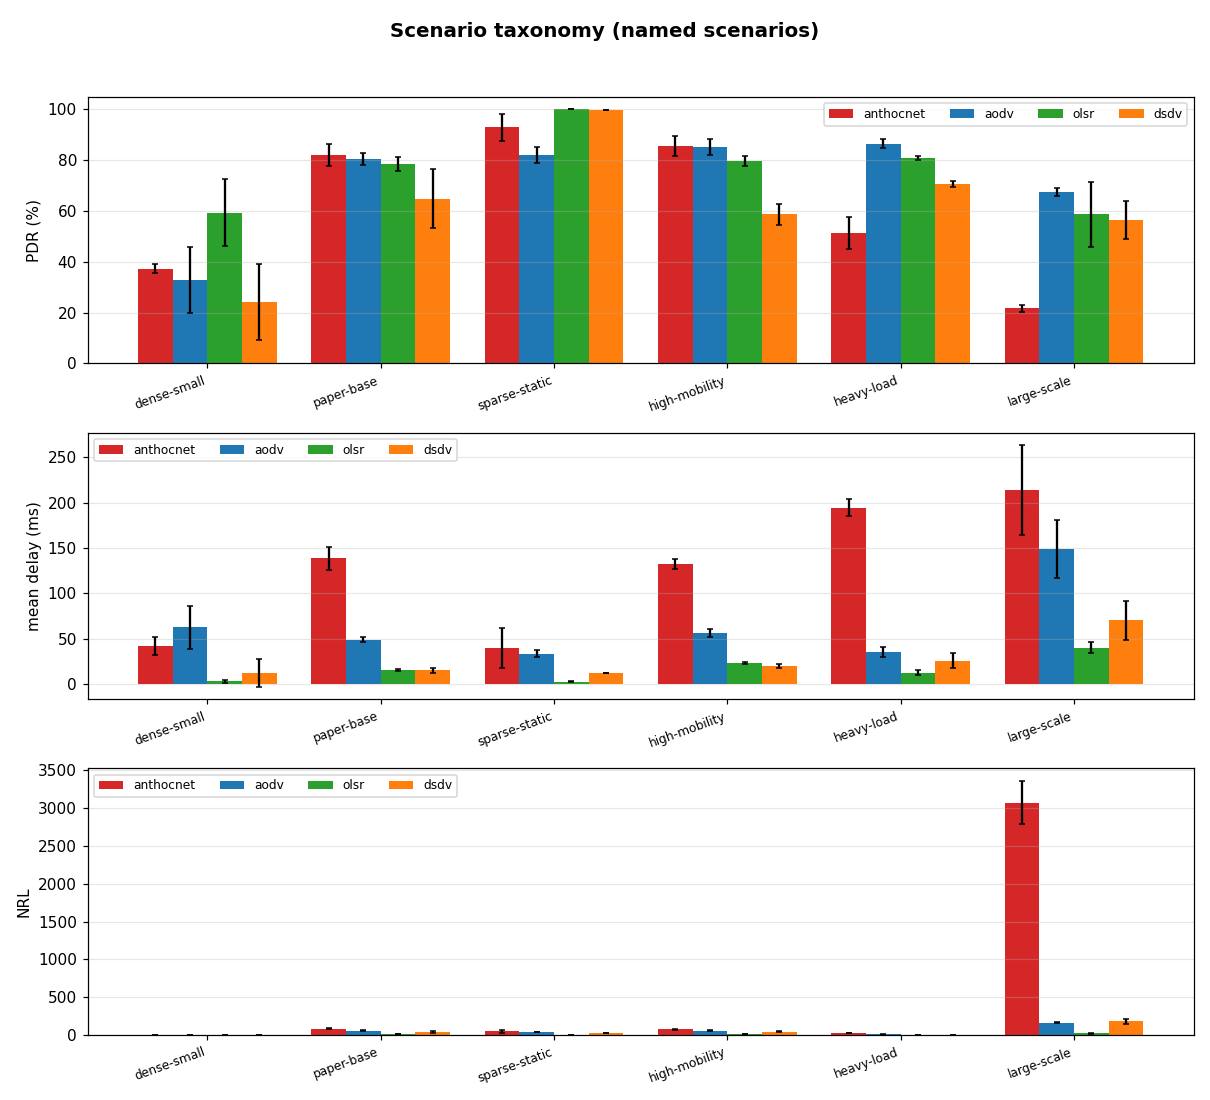
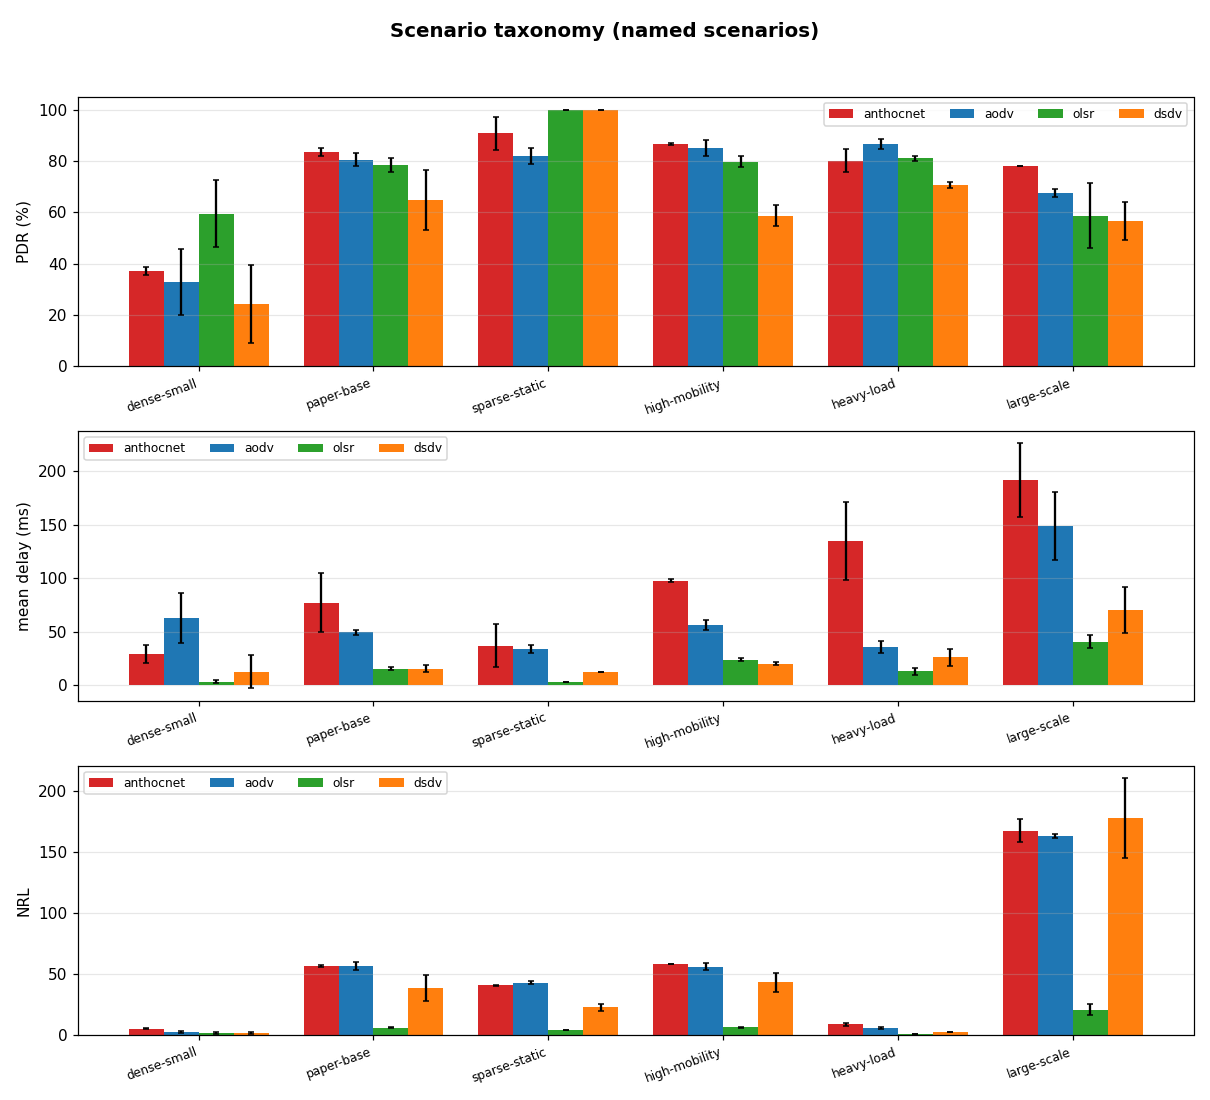
docs: refresh benchmark results + charts [skip ci]

diff --git a/docs/benchmarks.md b/docs/benchmarks.md
@@ -54,12 +54,12 @@ _Scenario taxonomy — **PDR %**, mean of 2 run(s) per scenario, every baseline 
 
 | scenario | class | anthocnet | aodv | olsr | dsdv |
 |---|---|---:|---:|---:|---:|
-| [dense-small](benchmarks/scenarios/dense-small.md) | dense / low-mobility | 37.3 | 32.8 | 59.4 | 24.2 |
-| [paper-base](benchmarks/scenarios/paper-base.md) | sparse / mobile | 82.2 | 80.5 | 78.5 | 64.8 |
-| [sparse-static](benchmarks/scenarios/sparse-static.md) | sparse / static | 93.0 | 81.9 | 100.0 | 99.9 |
-| [high-mobility](benchmarks/scenarios/high-mobility.md) | sparse / high-mobility | 85.8 | 85.1 | 79.7 | 58.7 |
-| [heavy-load](benchmarks/scenarios/heavy-load.md) | dense / heavy-load | 51.4 | 86.6 | 81.0 | 70.6 |
-| [large-scale](benchmarks/scenarios/large-scale.md) | large / mobile | 21.7 | 67.4 | 58.7 | 56.4 |
+| [dense-small](benchmarks/scenarios/dense-small.md) | dense / low-mobility | 37.1 | 32.8 | 59.4 | 24.2 |
+| [paper-base](benchmarks/scenarios/paper-base.md) | sparse / mobile | 83.4 | 80.5 | 78.5 | 64.8 |
+| [sparse-static](benchmarks/scenarios/sparse-static.md) | sparse / static | 90.7 | 81.9 | 100.0 | 99.9 |
+| [high-mobility](benchmarks/scenarios/high-mobility.md) | sparse / high-mobility | 86.6 | 85.1 | 79.7 | 58.7 |
+| [heavy-load](benchmarks/scenarios/heavy-load.md) | dense / heavy-load | 80.1 | 86.6 | 81.0 | 70.6 |
+| [large-scale](benchmarks/scenarios/large-scale.md) | large / mobile | 77.9 | 67.4 | 58.7 | 56.4 |
 
 <!-- BENCHMARK-TABLE-END -->
 

diff --git a/docs/benchmarks/scenarios/large-scale.md b/docs/benchmarks/scenarios/large-scale.md
@@ -36,7 +36,7 @@ _Mean of 2 run(s), every baseline on identical realisations. Generated by `run-s
 
 | protocol | PDR % | mean delay (ms) | 99th delay (ms) | throughput (kbps) | NRL | jitter (ms) | dOff90 (ms) |
 |----------|------:|----------------:|----------------:|------------------:|----:|------------:|------------:|
-| anthocnet | 21.7 | 213.8 | 2060.5 | 1.23 | 3071.129 | 260.99 | inf |
+| anthocnet | 77.9 | 191.4 | 1836.5 | 4.42 | 167.762 | 271.48 | inf |
 | aodv | 67.4 | 148.7 | 1935.0 | 3.62 | 163.429 | 220.95 | inf |
 | olsr | 58.7 | 40.5 | 1019.0 | 3.03 | 20.660 | 60.64 | inf |
 | dsdv | 56.4 | 70.3 | 1050.0 | 2.97 | 177.841 | 118.41 | inf |

diff --git a/docs/benchmarks/scenarios/heavy-load.md b/docs/benchmarks/scenarios/heavy-load.md
@@ -37,7 +37,7 @@ _Mean of 2 run(s), every baseline on identical realisations. Generated by `run-s
 
 | protocol | PDR % | mean delay (ms) | 99th delay (ms) | throughput (kbps) | NRL | jitter (ms) | dOff90 (ms) |
 |----------|------:|----------------:|----------------:|------------------:|----:|------------:|------------:|
-| anthocnet | 51.4 | 194.2 | 1739.0 | 36.36 | 28.558 | 129.72 | inf |
+| anthocnet | 80.1 | 134.7 | 1456.5 | 56.60 | 8.746 | 97.11 | inf |
 | aodv | 86.6 | 35.6 | 702.0 | 61.40 | 5.535 | 30.75 | inf |
 | olsr | 81.0 | 12.9 | 359.0 | 54.24 | 0.439 | 11.32 | inf |
 | dsdv | 70.6 | 26.2 | 830.5 | 50.04 | 2.562 | 19.23 | inf |

diff --git a/docs/benchmarks/scenarios/high-mobility.md b/docs/benchmarks/scenarios/high-mobility.md
@@ -36,7 +36,7 @@ _Mean of 2 run(s), every baseline on identical realisations. Generated by `run-s
 
 | protocol | PDR % | mean delay (ms) | 99th delay (ms) | throughput (kbps) | NRL | jitter (ms) | dOff90 (ms) |
 |----------|------:|----------------:|----------------:|------------------:|----:|------------:|------------:|
-| anthocnet | 85.8 | 132.0 | 1757.0 | 4.26 | 72.155 | 196.35 | inf |
+| anthocnet | 86.6 | 97.7 | 1260.5 | 4.30 | 58.003 | 145.56 | inf |
 | aodv | 85.1 | 56.1 | 1154.0 | 4.73 | 56.000 | 86.23 | inf |
 | olsr | 79.7 | 23.7 | 1009.0 | 4.03 | 6.233 | 37.32 | inf |
 | dsdv | 58.7 | 20.2 | 965.5 | 3.11 | 43.127 | 34.73 | inf |

diff --git a/docs/benchmarks/scenarios/paper-base.md b/docs/benchmarks/scenarios/paper-base.md
@@ -38,7 +38,7 @@ _Mean of 2 run(s), every baseline on identical realisations. Generated by `run-s
 
 | protocol | PDR % | mean delay (ms) | 99th delay (ms) | throughput (kbps) | NRL | jitter (ms) | dOff90 (ms) |
 |----------|------:|----------------:|----------------:|------------------:|----:|------------:|------------:|
-| anthocnet | 82.2 | 138.6 | 1832.0 | 4.08 | 84.814 | 214.29 | inf |
+| anthocnet | 83.4 | 77.0 | 1058.5 | 4.14 | 56.555 | 116.46 | inf |
 | aodv | 80.5 | 49.2 | 1018.5 | 4.47 | 56.618 | 73.62 | inf |
 | olsr | 78.5 | 15.5 | 43.0 | 4.02 | 5.968 | 21.30 | inf |
 | dsdv | 64.8 | 15.4 | 572.5 | 3.46 | 38.349 | 24.61 | inf |

diff --git a/docs/benchmarks/scenarios/sparse-static.md b/docs/benchmarks/scenarios/sparse-static.md
@@ -36,7 +36,7 @@ _Mean of 2 run(s), every baseline on identical realisations. Generated by `run-s
 
 | protocol | PDR % | mean delay (ms) | 99th delay (ms) | throughput (kbps) | NRL | jitter (ms) | dOff90 (ms) |
 |----------|------:|----------------:|----------------:|------------------:|----:|------------:|------------:|
-| anthocnet | 93.0 | 40.2 | 791.5 | 4.62 | 46.520 | 59.20 | inf |
+| anthocnet | 90.7 | 37.0 | 875.0 | 4.50 | 40.693 | 54.63 | inf |
 | aodv | 81.9 | 33.7 | 786.0 | 4.55 | 42.929 | 41.47 | inf |
 | olsr | 100.0 | 3.0 | 15.0 | 5.21 | 4.217 | 1.14 | 4.5 |
 | dsdv | 99.9 | 12.2 | 134.5 | 5.27 | 22.569 | 18.27 | 11.5 |

diff --git a/docs/benchmarks/scenarios/dense-small.md b/docs/benchmarks/scenarios/dense-small.md
@@ -36,7 +36,7 @@ _Mean of 2 run(s), every baseline on identical realisations. Generated by `run-s
 
 | protocol | PDR % | mean delay (ms) | 99th delay (ms) | throughput (kbps) | NRL | jitter (ms) | dOff90 (ms) |
 |----------|------:|----------------:|----------------:|------------------:|----:|------------:|------------:|
-| anthocnet | 37.3 | 42.3 | 2036.5 | 8.26 | 5.037 | 15.06 | inf |
+| anthocnet | 37.1 | 28.9 | 1329.5 | 8.22 | 5.048 | 14.05 | inf |
 | aodv | 32.8 | 62.8 | 2138.0 | 7.30 | 2.288 | 29.50 | inf |
 | olsr | 59.4 | 3.3 | 14.0 | 7.54 | 1.274 | 1.67 | inf |
 | dsdv | 24.2 | 12.4 | 6.0 | 5.38 | 1.482 | 4.82 | inf |
